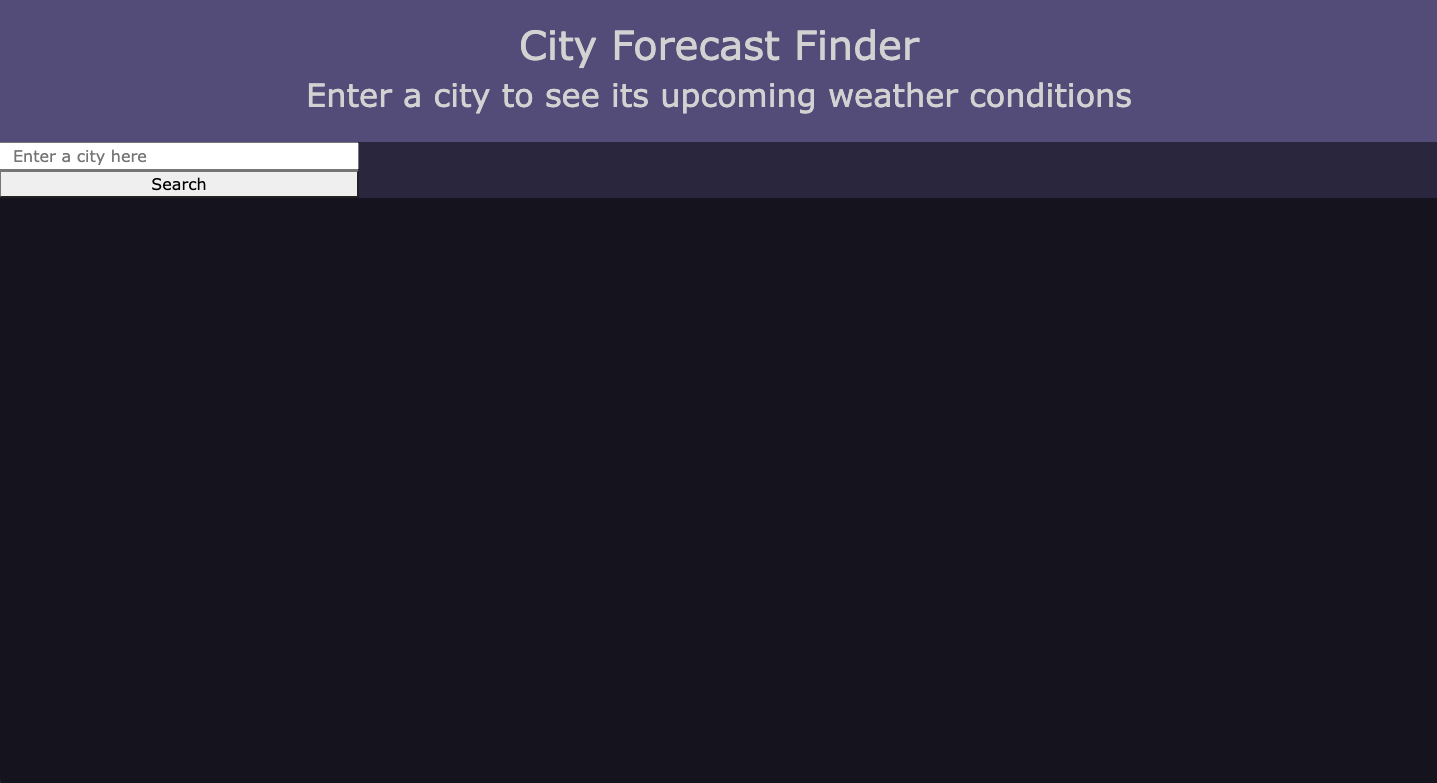
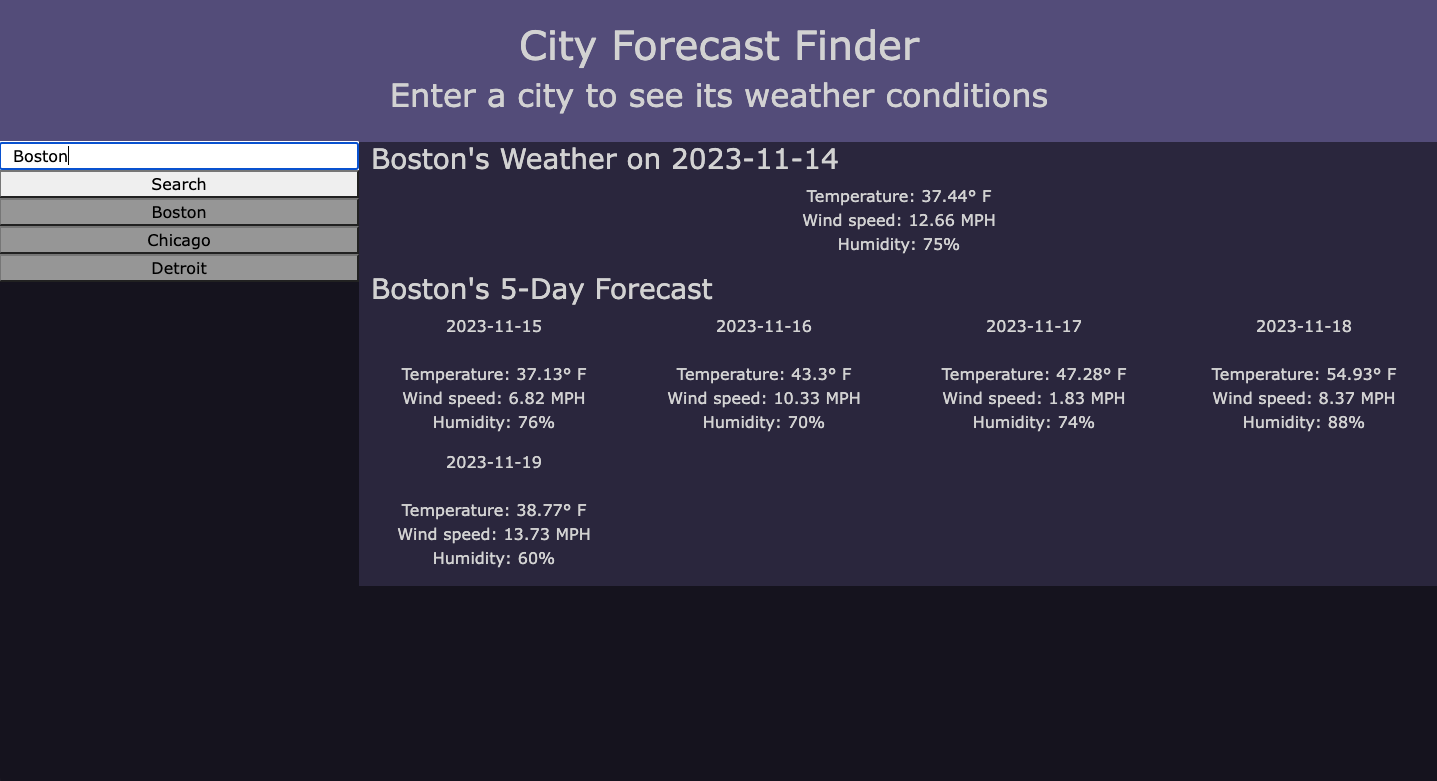
Refactored code, updated README file image

diff --git a/assets/js/script.js b/assets/js/script.js
@@ -1,19 +1,28 @@
+// Search bar elements
 var searchBar = $('#search-bar');
 var searchButton = $('#search-button');
 
+// The area where previously searched city buttons will be placed
 var savedSearchDiv = $('#saved-searches');
 
+// The areas where weather data is displayed
 var weatherHeaderBlock = $('#weatherHeader');
 var weatherBlock = $('#weather');
 
 var forecastHeaderBlock = $('#forecastHeader');
 var forecastBlocks = [$('#forecast-1'), $('#forecast-2'), $('#forecast-3'), $('#forecast-4'), $('#forecast-5')];
 
+// My OpenWeather API key
+var key = "c7cd1d281114a995fffcd325175b8a5e";
+
+// Pull and display saved cities from local storage
 createSavedButtons();
 
+// Process a search request when the generic Search button is clicked
 searchButton.on('click', searchForCity);
 
-$('#saved-searches').on('click', function(event) {
+// Perform a specfic search request when a designated city button is clicked
+savedSearchDiv.on('click', function(event) {
     var savedButton = $(event.target);
     var savedCity = savedButton.html();
 
@@ -22,30 +31,33 @@ $('#saved-searches').on('click', function(event) {
     getForecast(savedCity);
 });
 
-//Create buttons from local storage
+
+
+// Create buttons from local storage data
 function createSavedButtons() {
     for (i = 0; i < localStorage.length; i++) {
         newCityButton(localStorage.key(i));
     }
 }
 
+// Use the contents of the search bar to perform a weather search
 function searchForCity() {
     var searchQuery = searchBar.val();
 
+    // Don't proceed if the search bar is empty
     if (searchQuery !== "") {
+        // Create a new city button, only if a button for city doesn't already exist
         var createButton = true;
         for (i = 0; i < localStorage.length; i++) {
             if(localStorage.key(i) == searchQuery) {
                 createButton = false;
             }
         }
-    
-        // Create new query button, if there isn't one already
         if (createButton) {
             newCityButton(searchQuery);
         }
     
-        // Save new query to local storage
+        // Save new city query to local storage
         saveToLocalStorage(searchQuery);
     
         // Get the weather and 5-day forecast of the given city
@@ -54,70 +66,75 @@ function searchForCity() {
     }
 }
 
-//Create new query button
+// Create and display a city search button
 function newCityButton(cityName) {
     var newButton = $('<button>');
+
     newButton.attr('class', 'cityButton');
     newButton.html(cityName);
 
     savedSearchDiv.append(newButton);
 }
 
-//Save new query to local storage
+// Save new query to local storage
+// City name is stored as the key, weather data could potentially be stored as the key's content
 function saveToLocalStorage(cityName) {
     localStorage.setItem(cityName, JSON.stringify(" "));
 }
 
+// Call the OpenWeather API to get the current weather of the given city, then display it on the webpage
 function getWeather(cityName) {
-    // Set the title of the weather block section
+    // Get the current date and set the title of the weather block section
     var currentDateObject = dayjs();
     var currentDateText = currentDateObject.format('YYYY-MM-DD');
 
     weatherHeaderBlock.html(cityName + "'s Weather on " + currentDateText);
 
-    var city = cityName;
-    var key = "c7cd1d281114a995fffcd325175b8a5e";
-
-    var url = "https://api.openweathermap.org/data/2.5/weather?q=" + city + "&appid=" + key + "&units=imperial";
-
+    // Call OpenWeather
+    var url = "https://api.openweathermap.org/data/2.5/weather?q=" + cityName + "&appid=" + key + "&units=imperial";
     fetch(url)
+        // Convert OpenWeather data to JSON format
         .then(function (response) {
             return response.json();
         })
         .then(function (data) {
-            console.log(data);
-
-            //var date;
+            // Extract temperature, wind speed and humidity
             var temp = data.main.temp;
             var windSpeed = data.wind.speed;
             var humidity = data.main.humidity;
-
-            weatherBlock.html("Temperature: " + temp+ "\u00B0 F<br>Wind speed: " + windSpeed + " MPH<br>Humidity: " + humidity + "%");
+            // Write weather values to the weather block
+            weatherBlock.html("Temperature: " + temp +
+                "\u00B0 F<br>Wind speed: " + windSpeed +
+                " MPH<br>Humidity: " + humidity + "%");
         })
 }
 
+// Call the OpenWeather API to get the 5-day forecast of the given city, then display it on the webpage
 function getForecast(cityName) {
+    // Set the title of the forecast block section
     forecastHeaderBlock.html(cityName + "'s 5-Day Forecast");
 
-    var city = cityName;
-    var key = "c7cd1d281114a995fffcd325175b8a5e";
-
-    var url = "https://api.openweathermap.org/data/2.5/forecast?q=" + city + "&appid=" + key + "&units=imperial";
-
+    // Call OpenWeather
+    var url = "https://api.openweathermap.org/data/2.5/forecast?q=" + cityName + "&appid=" + key + "&units=imperial";
     fetch(url)
+        // Convert OpenWeather data to JSON format
         .then(function (response) {
             return response.json();
         })
         .then(function (data) {
+            // Go through the first 5 days of data
             for (i = 0; i <= 32; i += 8) {
                 forecastData = data.list[i];
-
+                // Extract date, temperature, wind speed and humidity
                 var date = forecastData.dt_txt.split(" ")[0];
                 var temp = forecastData.main.temp;
                 var windSpeed = forecastData.wind.speed;
                 var humidity = forecastData.main.humidity;
-
-                forecastBlocks[i / 8].html(date + "<br><br>Temperature: " + temp + "\u00B0 F<br>Wind speed: " + windSpeed + " MPH<br>Humidity: " + humidity + "%");
+                // Write weather values to the forecast blocks
+                forecastBlocks[i / 8].html(date +
+                    "<br><br>Temperature: " + temp +
+                    "\u00B0 F<br>Wind speed: " + windSpeed +
+                    " MPH<br>Humidity: " + humidity + "%");
             }
         })
 }

diff --git a/index.html b/index.html
@@ -21,6 +21,7 @@
 
     <div class="container-fluid">
       <div class="row">
+        <!-- The left column, contains search elements -->
         <div class="col-md-3 search-area">
           <div class="row">
             <input id="search-bar" placeholder="Enter a city here"></input>
@@ -29,9 +30,11 @@
             <button id="search-button">Search</button>
           </div>
           <div id="saved-searches" class="row">
-            <!-- Previously searched city buttons will go here -->
+            <!-- Dedicated city search buttons will be appended here -->
           </div>
         </div>
+
+        <!-- The right column, contains weather data elements -->
         <div class="col-md-9 weather-boxes">
           <div class="row">
             <h3 id="weatherHeader"></h3>

diff --git a/assets/css/style.css b/assets/css/style.css
@@ -19,10 +19,6 @@ p {
     background-color: rgb(40,40,60);
 }
 
-.current {
-    background-color: rgb(60,60,90);
-}
-
 .cityButton {
     background-color: rgb(150,150,150);
 }
